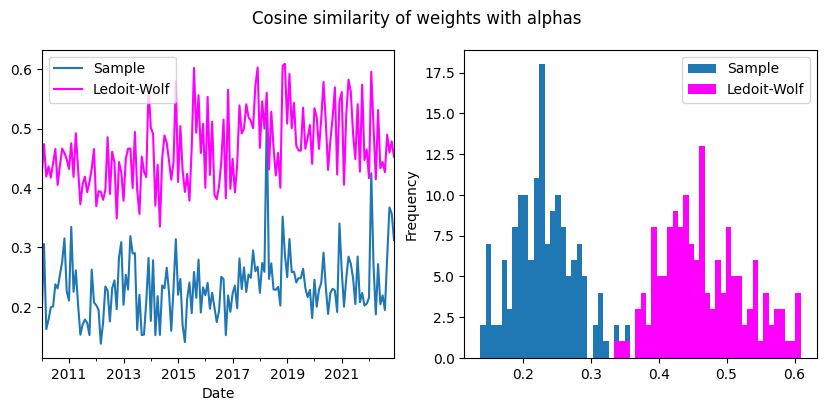
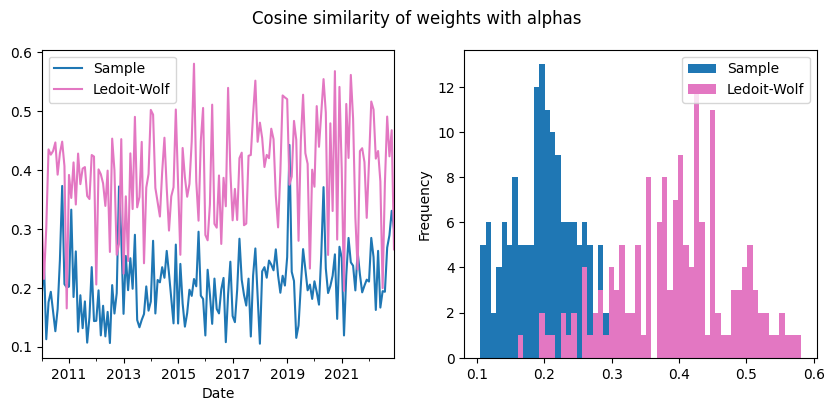
changes

diff --git a/_posts/2023-12-30-honey-covariance.md b/_posts/2023-12-30-honey-covariance.md
@@ -149,7 +149,8 @@ Where $S$ is sample covariance and $F$ is a structured estimator: the sample con
 
 From my understanding, when  $P \gg N$, aka large number of stocks with a small rolling window, the sample covariance matrix $\hat{\Sigma}$ is singular. This relates to rank (denoted by $r$): $r(\textbf{X})=r(\textbf{X}^T)=r(\textbf{X}^T\textbf{X})$. Since $\textbf{X}$ is $n \times p$, it's rank is at most $\min(n,p)$ and so is $\textbf{X}^T\textbf{X}$. 
 
-Somehow, this is bad for the optimizer (I don't know enough about the internals to comment how this works) and so the weight vectors $\textbf{x}$ produced deviate from the alphas.
+If so, small eigenvalues will reduce the determinant size, and the inverse matrix will get scaled up. Given the portfolio weights vector has a closed form analytical solution involving the inverse, this would propagate the errors to the weights.
+
 
 To empirically verify this, we take the cosine similarity of $\alpha$ with $\textbf{x}$ over the months, for both sample and Ledoit-Wolf covariance matrices.
 
